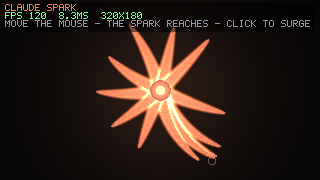
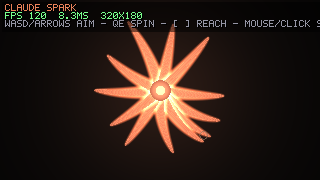
feat(all): claude-spark — keyboard control (WASD/arrows, QE, [ ]) + tamer reach
- WASD / arrow keys aim the reach target from the keyboard; Q/E spin the whole
  spark; [ ] dial the reach distance live; mouse still works and click surges.
  Whichever input was used most recently wins, falling back to the idle orbit.
- Reined in the default reach (only well-aligned arms reach, lower gain, tighter
  stretch cap and idle-orbit radius) so the arms flex toward the cursor like the
  logo flexing, not flailing.
- Added SPARK_SPIN / SPARK_REACH env knobs (matches the repo's tuning convention;
  also used to verify the spin + reach render paths headlessly).
Regenerated the hero shot + README controls. ~1780fps, tsc clean.

diff --git a/packages/all/example/claude-spark.ts b/packages/all/example/claude-spark.ts
@@ -41,6 +41,14 @@ let tipY = new Float64Array(N);
 const phase = new Float64Array(N);
 let inited = false;
 
+// Control state. spin/reachScale persist across resizes; kb target re-seeds on init.
+// Initial values may be set from the env (SPARK_SPIN radians, SPARK_REACH 0.2..2).
+let spin = Number(process.env.SPARK_SPIN) || 0; // Q/E rotate the whole spark
+let reachScale = process.env.SPARK_REACH ? Math.max(0.2, Math.min(2, Number(process.env.SPARK_REACH))) : 1; // [ ] reach
+let kbX = 0, kbY = 0; // WASD / arrow aim target (pixels)
+let lastMouseT = -99, lastKeyT = -99, prevSeq = 0;
+let keyDirty = false;
+
 const restPos = (i: number, cx: number, cy: number, R: number): [number, number] => {
   const a = (SPIKES[i].deg * Math.PI) / 180;
   return [cx + Math.cos(a) * R * SPIKES[i].len, cy + Math.sin(a) * R * SPIKES[i].len];
@@ -48,9 +56,25 @@ const restPos = (i: number, cx: number, cy: number, R: number): [number, number]
 
 runDemo({
   title: 'CLAUDE SPARK',
-  hud: 'MOVE THE MOUSE - THE SPARK REACHES - CLICK TO SURGE',
+  hud: 'WASD/ARROWS AIM - QE SPIN - [ ] REACH - MOUSE/CLICK SURGE',
   mouse: true,
   captureT: 5,
+  onKey: (k, t) => {
+    const step = Math.min(t.W, t.H) * 0.06;
+    if (k === 'w' || k === 'up') kbY -= step;
+    else if (k === 's' || k === 'down') kbY += step;
+    else if (k === 'a' || k === 'left') kbX -= step;
+    else if (k === 'd' || k === 'right') kbX += step;
+    else if (k === 'q') spin -= 0.13;
+    else if (k === 'e') spin += 0.13;
+    else if (k === '[') reachScale = Math.max(0.2, reachScale - 0.1);
+    else if (k === ']') reachScale = Math.min(2.0, reachScale + 0.1);
+    else if (k === 'r') { spin = 0; reachScale = 1; kbX = t.W / 2 + Math.min(t.W, t.H) * 0.25; kbY = t.H / 2; }
+    else return;
+    kbX = Math.max(0, Math.min(t.W - 1, kbX));
+    kbY = Math.max(0, Math.min(t.H - 1, kbY));
+    keyDirty = true;
+  },
   init: (t) => {
     const cx = t.W / 2, cy = t.H / 2, R = Math.min(t.W, t.H) * 0.42;
     const rng = mulberry32(0x5afe);
@@ -60,6 +84,9 @@ runDemo({
       tipY[i] = ry;
       phase[i] = rng() * TAU;
     }
+    kbX = cx + R * 0.6; // default aim
+    kbY = cy;
+    prevSeq = t.mouseSeq;
     inited = true;
   },
   frame: (t, time, dt) => {
@@ -83,19 +110,17 @@ runDemo({
       }
     }
 
-    // ── Where the spark reaches: the real mouse, or a roaming virtual cursor ──
-    const live = t.mouseActive && t.mouseX >= 0;
-    let mx: number, my: number;
-    if (live) {
-      mx = t.mouseX;
-      my = t.mouseY;
-    } else {
-      // eased Lissajous orbit so it's alive headlessly and before the first move
-      mx = cx + Math.cos(time * 0.55) * R * 1.15;
-      my = cy + Math.sin(time * 0.8) * R * 0.95;
-    }
+    // ── Input mode: most-recently-used of mouse / keyboard wins, else orbit ───
+    if (t.mouseActive && t.mouseSeq !== prevSeq) { prevSeq = t.mouseSeq; lastMouseT = time; }
+    if (keyDirty) { lastKeyT = time; keyDirty = false; }
+    const useMouse = t.mouseActive && time - lastMouseT < 1.5;
+    const useKeys = time - lastKeyT < 4.0;
+    let mx: number, my: number, mode: number; // 0 auto · 1 mouse · 2 keys
+    if (useMouse && (!useKeys || lastMouseT >= lastKeyT)) { mx = t.mouseX; my = t.mouseY; mode = 1; }
+    else if (useKeys) { mx = kbX; my = kbY; mode = 2; }
+    else { mx = cx + Math.cos(time * 0.5) * R * 0.82; my = cy + Math.sin(time * 0.7) * R * 0.66; mode = 0; } // eased idle orbit
     const surge = t.mouseDown ? 1 : 0; // click = stronger reach
-    const reachK = 0.82 + 0.5 * surge;
+    const reachK = (0.5 + 0.4 * surge) * reachScale;
 
     let tdx = mx - cx, tdy = my - cy;
     const md = Math.max(1e-3, Math.hypot(tdx, tdy));
@@ -127,7 +152,7 @@ runDemo({
 
     // ── Each tentacle: spring its tip toward (rest blended with reach) ────────
     for (let i = 0; i < N; i++) {
-      const a = (SPIKES[i].deg * Math.PI) / 180;
+      const a = (SPIKES[i].deg * Math.PI) / 180 + spin; // Q/E rotate the whole burst
       const dirx = Math.cos(a), diry = Math.sin(a);
       const breath = 1 + 0.05 * Math.sin(time * 1.2 + phase[i]);
       const rx = cx + dirx * R * SPIKES[i].len * breath;
@@ -135,16 +160,16 @@ runDemo({
 
       // alignment of this spike with the cursor direction → how much it reaches
       const align = clamp(dirx * mnx + diry * mny, -1, 1);
-      const w = smoothstep(0.05, 1.0, align) * reachK;
-      // desired tip: rest, pulled toward the cursor for facing spikes (and a touch
-      // of global lean when the cursor is close)
-      const near = smoothstep(R * 2.2, R * 0.4, md);
-      let dx = lerp(rx, mx, w) - rx + (mx - rx) * 0.06 * near;
-      let dy = lerp(ry, my, w) - ry + (my - ry) * 0.06 * near;
+      const w = smoothstep(0.18, 1.0, align) * reachK; // only well-aligned arms reach
+      // desired tip: rest, pulled toward the cursor for facing spikes (and a faint
+      // global lean when the cursor is close)
+      const near = smoothstep(R * 2.0, R * 0.5, md);
+      const dx = lerp(rx, mx, w) - rx + (mx - rx) * 0.03 * near;
+      const dy = lerp(ry, my, w) - ry + (my - ry) * 0.03 * near;
       let destX = rx + dx, destY = ry + dy;
-      // clamp how far a tentacle can stretch from the centre
+      // clamp how far a tentacle can stretch from the centre (keeps it a logo, not a flail)
       const ex = destX - cx, ey = destY - cy, el = Math.hypot(ex, ey);
-      const cap = R * 1.85;
+      const cap = R * 1.4;
       if (el > cap) {
         destX = cx + (ex / el) * cap;
         destY = cy + (ey / el) * cap;
@@ -183,13 +208,13 @@ runDemo({
     // ── Pointer reticle so you can see what it's reaching for ─────────────────
     {
       const rr = Math.max(2, R * 0.05);
-      const col: [number, number, number] = live ? [255, 230, 205] : [150, 120, 100];
-      const ringA = live ? 0.9 : 0.4;
+      const col: [number, number, number] = mode === 1 ? [255, 230, 205] : mode === 2 ? [235, 200, 165] : [150, 120, 100];
+      const ringA = mode === 0 ? 0.4 : 0.9;
       for (let k = 0; k < 48; k++) {
         const ang = (k / 48) * TAU;
         t.blendPixel(Math.round(mx + Math.cos(ang) * rr), Math.round(my + Math.sin(ang) * rr), col[0], col[1], col[2], ringA);
       }
-      if (live && surge) disc(mx, my, rr * 0.6, CORE, true, 0.5);
+      if (mode === 1 && surge) disc(mx, my, rr * 0.6, CORE, true, 0.5);
     }
 
     void clamp01;

diff --git a/packages/all/README.md b/packages/all/README.md
@@ -23,7 +23,7 @@ The browser confined TypeScript to a `<canvas>` and `fetch`. `@bun-win32` hands 
 
 <table>
 <tr>
-<td colspan="2"><img src="https://raw.githubusercontent.com/ObscuritySRL/bun-win32/main/packages/all/screenshots/claude-spark.png" alt="claude-spark"><br><b>claude-spark</b> — <b>interactive.</b> The Claude <b>spark logo</b>, alive: twelve tapered tentacles whose rest pose is parsed straight from the official SVG, that <b>REACH and curl toward your mouse</b> (real xterm SGR mouse tracking parsed off stdin) and <b>surge when you click</b>. With no mouse — or in a headless capture — a virtual cursor roams so it's always alive. <b>≈1800fps</b>. <code>bun run claude-spark</code></td>
+<td colspan="2"><img src="https://raw.githubusercontent.com/ObscuritySRL/bun-win32/main/packages/all/screenshots/claude-spark.png" alt="claude-spark"><br><b>claude-spark</b> — <b>interactive.</b> The Claude <b>spark logo</b>, alive: twelve tapered tentacles whose rest pose is parsed straight from the official SVG, that <b>reach and curl toward your cursor</b>. Drive it with the <b>mouse</b> (real xterm SGR tracking off stdin) or <b>WASD / arrow keys</b>; <b>Q / E</b> spin the whole mark, <b>[ ]</b> dial the reach, click to <b>surge</b>. Idle — or headless — a virtual cursor roams so it's always alive. <b>≈1800fps</b>. <code>bun run claude-spark</code></td>
 </tr>
 <tr>
 <td width="50%"><img src="https://raw.githubusercontent.com/ObscuritySRL/bun-win32/main/packages/all/screenshots/clawd.png" alt="clawd"><br><b>clawd</b> — Anthropic's pixel mascot <b>Claw'd</b> brought to life: the blocky terracotta critter from the <i>"Welcome, Claw'd"</i> card, hopping across the cream stage with springy squash-&amp;-stretch, legs that tuck mid-air, a bouncing drop-shadow and eased blinks. Faithful to the artwork. <b>≈9600fps</b>. <code>bun run clawd</code></td>